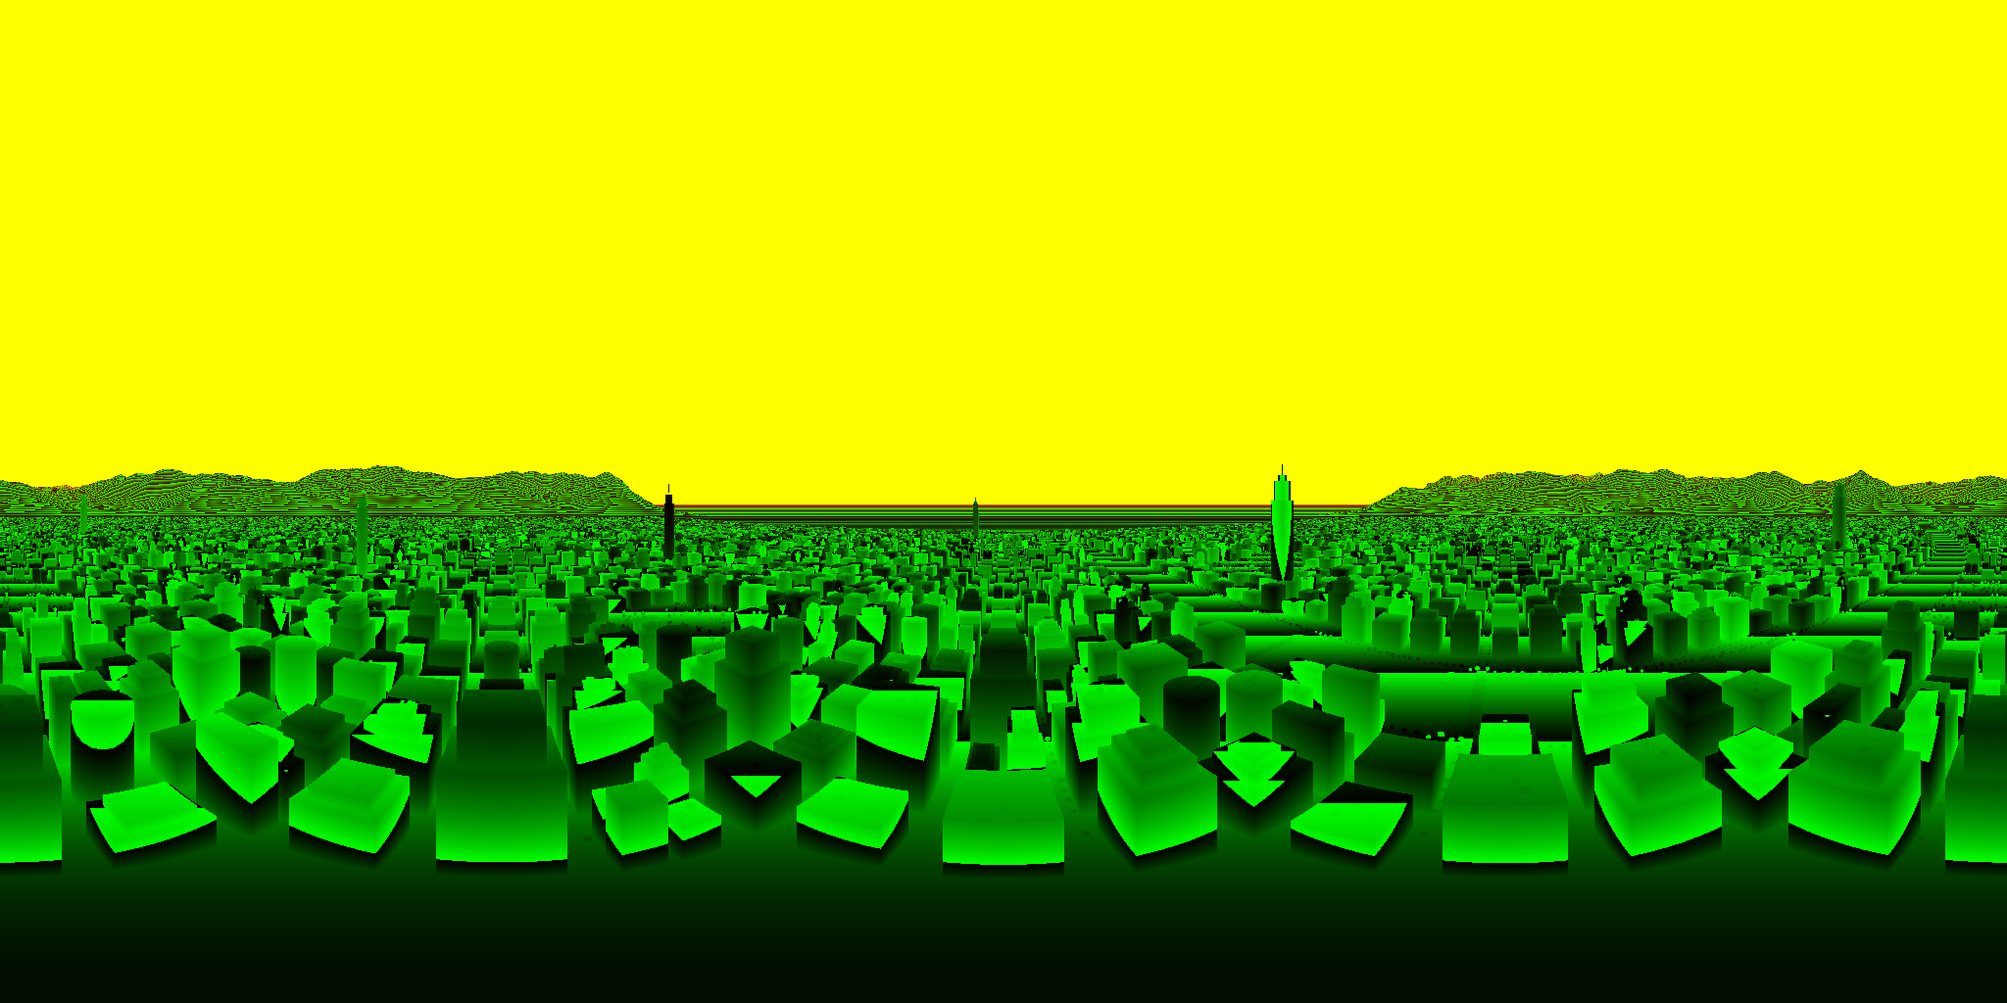
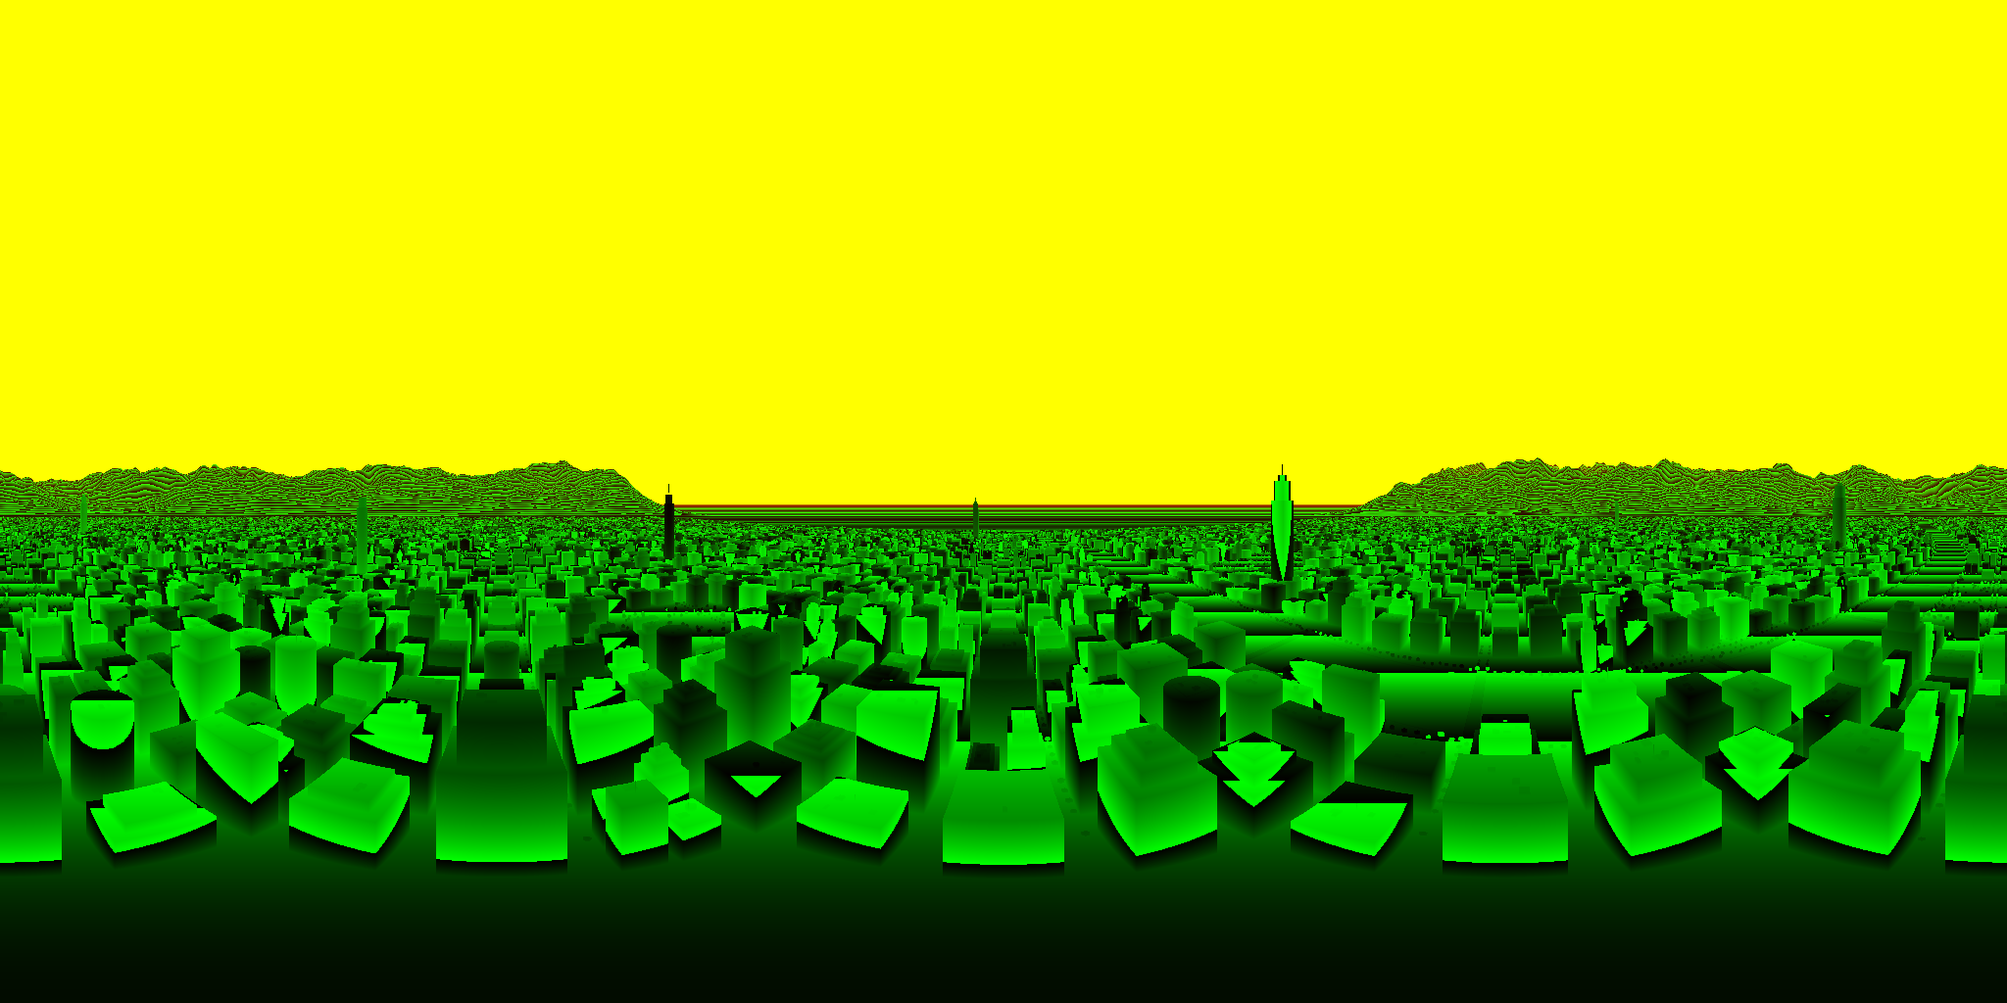
Home Boxing: citta' con luce corretta e montagne frastagliate (boschi, pascoli, roccia)

Changed region(s): [[0.6562, 0.4375, 1.0, 0.5312], [0.0, 0.4375, 0.3438, 0.5312]]

diff --git a/homeboxing/js/fighters.js b/homeboxing/js/fighters.js
@@ -3,7 +3,7 @@
 // Ruolo nel gioco sempre lo stesso ("mike" nel codice = l'avversario); qui cambiano nome e aspetto.
 export const FIGHTERS = {
   bruce: {
-    id: 'bruce', name: 'Bruce', glb: 'assets/bruce.glb?v=20261003224237', thumb: 'assets/fighter_bruce.webp?v=20261003224237',
+    id: 'bruce', name: 'Bruce', glb: 'assets/bruce.glb?v=20261003224340', thumb: 'assets/fighter_bruce.webp?v=20261003224340',
     face: [163, 5, 110],                                           // volto nell'anteprima (x, y, lato) per il tabellone
     skinTint: 0xe3b98f,                                            // pelle piu' abbronzata della texture MakeHuman
     evenSkin: false,                                               // (la schiaritura delle gambe serve solo alla pelle di Mike)
@@ -12,13 +12,13 @@ export const FIGHTERS = {
     feints: { rate: 1.3, moves: ['feint_jab', 'feint_dip', 'feint_hop', 'feint_jab'], speed: 1.0 },
   },
   mike: {
-    id: 'mike', name: 'Mike', glb: 'assets/mike.glb?v=20261003224237', thumb: 'assets/fighter_mike.webp?v=20261003224237',
+    id: 'mike', name: 'Mike', glb: 'assets/mike.glb?v=20261003224340', thumb: 'assets/fighter_mike.webp?v=20261003224340',
     face: [178, 0, 110],
     skinTint: null,
     band: { bg: '#f4f4f0', line: '#c99a2e', text: '#1239a8' },
   },
   eddy: {
-    id: 'eddy', name: 'Eddy', glb: 'assets/eddy.glb?v=20261003224237', thumb: 'assets/fighter_eddy.webp?v=20261003224237',
+    id: 'eddy', name: 'Eddy', glb: 'assets/eddy.glb?v=20261003224340', thumb: 'assets/fighter_eddy.webp?v=20261003224340',
     face: [182, 52, 110],
     skinTint: null, evenSkin: false, noStubble: true,            // ai lati rasato a zero: niente ombra di capelli sotto la cresta
     band: { bg: '#0b0b0e', line: '#0a8cff', text: '#3fb0ff' },     // fascia nera con scritta blu fosforescente
@@ -28,7 +28,7 @@ export const FIGHTERS = {
     feints: { rate: 0.6, moves: ['feint_hop', 'feint_dip'], speed: 1.15 },
   },
   fury: {
-    id: 'fury', name: 'Fury', glb: 'assets/fury.glb?v=20261003224237', thumb: 'assets/fighter_fury.webp?v=20261003224237',
+    id: 'fury', name: 'Fury', glb: 'assets/fury.glb?v=20261003224340', thumb: 'assets/fighter_fury.webp?v=20261003224340',
     face: [190, 8, 102],
     skinTint: 0xc99872, evenSkin: false,                           // pelle abbronzata
     // calzoncini thai: fascia dorata larga con il riquadro bianco e la scritta rossa
@@ -37,7 +37,7 @@ export const FIGHTERS = {
     mods: { moveSpeed: 0.6, defenseSpeed: 1.0, attackEvery: 1.15, extraCombos: ['1-2-3-2', '1-6-3-2', '2-3-2', '1-2-5-2', '3-2-3', '6-3b-3', '1-2-3'] },
   },
   maxim: {
-    id: 'maxim', name: 'Maxim', glb: 'assets/maxim.glb?v=20261003224237', thumb: 'assets/fighter_maxim.webp?v=20261003224237',
+    id: 'maxim', name: 'Maxim', glb: 'assets/maxim.glb?v=20261003224340', thumb: 'assets/fighter_maxim.webp?v=20261003224340',
     face: [192, 34, 100],
     skinTint: null, evenSkin: false, hairTint: '#d9b872',          // biondo
     band: { bg: '#f4f4f0', line: '#c40f22', text: '#c40f22', label: 'MAXIM ★' },
@@ -45,7 +45,7 @@ export const FIGHTERS = {
     mods: { moveSpeed: 1.15, defenseSpeed: 0.95, attackEvery: 0.7, extraCombos: ['3-4', '3-2-3', '2-3', '1-2-3', '3-2', '2-3-2', '6-3', '1-2-3-2', '3b-4', '3b-3'] },
   },
   brutus: {
-    id: 'brutus', name: 'Brutus', glb: 'assets/brutus.glb?v=20261003224237', thumb: 'assets/fighter_brutus.webp?v=20261003224237',
+    id: 'brutus', name: 'Brutus', glb: 'assets/brutus.glb?v=20261003224340', thumb: 'assets/fighter_brutus.webp?v=20261003224340',
     face: [188, 30, 100],
     skinTint: 0xe8c4a8, evenSkin: false,
     band: { bg: '#7a0f14', line: '#d4a537', text: '#e8c25a', label: 'BRUTUS' },
@@ -56,7 +56,7 @@ export const FIGHTERS = {
       extraCombos: ['3-4', '6-3', '1-6', '5-2', '6-3b-3', '3-2-3', '1-6-3-2', '1-2-5-2', '3b-4', '6-3'] },
   },
   rocco: {
-    id: 'rocco', name: 'Rocco', glb: 'assets/rocco.glb?v=20261003224237', thumb: 'assets/fighter_rocco.webp?v=20261003224237',
+    id: 'rocco', name: 'Rocco', glb: 'assets/rocco.glb?v=20261003224340', thumb: 'assets/fighter_rocco.webp?v=20261003224340',
     face: [195, 12, 92],
     skinTint: 0xf0d2b8, evenSkin: false, skinGloss: 0.32,           // pelle lucida di sudore
     band: { bg: '#121214', line: '#121214', text: '#f1efe8', label: ' ' },   // fascia nera liscia
@@ -67,7 +67,7 @@ export const FIGHTERS = {
       extraCombos: ['3b-3', '1-3b-3', '2b-3-2', '3b-4', '1-2b', '3-2', '1-2-3'] },
   },
   ace: {
-    id: 'ace', name: 'Ace', glb: 'assets/ace.glb?v=20261003224237', thumb: 'assets/fighter_ace.webp?v=20261003224237',
+    id: 'ace', name: 'Ace', glb: 'assets/ace.glb?v=20261003224340', thumb: 'assets/fighter_ace.webp?v=20261003224340',
     face: [195, 15, 95],
     skinTint: 0x6e5244, evenSkin: false, skinGloss: 0.4,           // nerissimo, un po' lucido
     fur: '#0c0a09',                                                 // capelli rasati neri (non grigi sulla pelle scura)

diff --git a/homeboxing/js/main.js b/homeboxing/js/main.js
@@ -2,24 +2,24 @@
 import * as THREE from 'three';
 import { RoomEnvironment } from 'three/addons/environments/RoomEnvironment.js';
 import { OrbitControls } from 'three/addons/controls/OrbitControls.js';
-import { buildRing, RING_SIZE } from './ring.js?v=20261003224237';
-import { Mike, LEVELS, loadMikeGLTF } from './mike.js?v=20261003224237';
-import { Sweat, Bruises, Celebration } from './fx.js?v=20261003224237';
-import { Player, SimInput } from './player.js?v=20261003224237';
-import { Scoreboard, HitFlash, PauseMenu, MenuPanel, CountdownHUD, RayPointers, setRays } from './hud.js?v=20261003224237';
-import { Room } from './room.js?v=20261003224237';
-import { Arena } from './arena.js?v=20261003224237';
-import { Beach } from './beach.js?v=20261003224237';
-import { Rooftop } from './rooftop.js?v=20261003224237';
-import { Desert } from './desert.js?v=20261003224237';
-import { RingGirl } from './ringgirl.js?v=20261003224237';
-import { REST_S, knockdownChance, say, sayCount, GetUpChallenge } from './match.js?v=20261003224237';
-import * as sfx from './sfx.js?v=20261003224237';
-import { t, lang, setLang, onLang, setOpponentName } from './i18n.js?v=20261003224237';
-import { FIGHTERS, FIGHTER_IDS } from './fighters.js?v=20261003224237';
-import { Tournament, BracketView } from './tournament.js?v=20261003224237';
-import { CpuMatch } from './cpu_match.js?v=20261003224237';
-import { TowerView } from './tower.js?v=20261003224237';
+import { buildRing, RING_SIZE } from './ring.js?v=20261003224340';
+import { Mike, LEVELS, loadMikeGLTF } from './mike.js?v=20261003224340';
+import { Sweat, Bruises, Celebration } from './fx.js?v=20261003224340';
+import { Player, SimInput } from './player.js?v=20261003224340';
+import { Scoreboard, HitFlash, PauseMenu, MenuPanel, CountdownHUD, RayPointers, setRays } from './hud.js?v=20261003224340';
+import { Room } from './room.js?v=20261003224340';
+import { Arena } from './arena.js?v=20261003224340';
+import { Beach } from './beach.js?v=20261003224340';
+import { Rooftop } from './rooftop.js?v=20261003224340';
+import { Desert } from './desert.js?v=20261003224340';
+import { RingGirl } from './ringgirl.js?v=20261003224340';
+import { REST_S, knockdownChance, say, sayCount, GetUpChallenge } from './match.js?v=20261003224340';
+import * as sfx from './sfx.js?v=20261003224340';
+import { t, lang, setLang, onLang, setOpponentName } from './i18n.js?v=20261003224340';
+import { FIGHTERS, FIGHTER_IDS } from './fighters.js?v=20261003224340';
+import { Tournament, BracketView } from './tournament.js?v=20261003224340';
+import { CpuMatch } from './cpu_match.js?v=20261003224340';
+import { TowerView } from './tower.js?v=20261003224340';
 sfx.setVoiceLang(lang);
 
 const $ = id => document.getElementById(id);
@@ -260,7 +260,7 @@ function roomPreview() {
   const t = new THREE.CanvasTexture(c); t.colorSpace = THREE.SRGBColorSpace;
   return t;
 }
-const stageImg = n => { const t = new THREE.TextureLoader().load(`assets/stage_${n}.webp?v=20261003224237`); t.colorSpace = THREE.SRGBColorSpace; return t; };
+const stageImg = n => { const t = new THREE.TextureLoader().load(`assets/stage_${n}.webp?v=20261003224340`); t.colorSpace = THREE.SRGBColorSpace; return t; };
 const fighterImg = id => { const tx = new THREE.TextureLoader().load(FIGHTERS[id].thumb); tx.colorSpace = THREE.SRGBColorSpace; return tx; };
 // anteprima di "Arena random": gli stage virtuali con un grande punto di domanda
 function randomPreview() {

diff --git a/homeboxing/js/desert.js b/homeboxing/js/desert.js
@@ -17,7 +17,7 @@ export class Desert {
     this.t = 0;
   }
   _sky() {
-    const tex = new THREE.TextureLoader().load('assets/deserto_panorama.jpg?v=20261003224237', () => { this.skyLoaded = true; if (this.onSkyLoad) this.onSkyLoad(); });
+    const tex = new THREE.TextureLoader().load('assets/deserto_panorama.jpg?v=20261003224340', () => { this.skyLoaded = true; if (this.onSkyLoad) this.onSkyLoad(); });
     tex.colorSpace = THREE.SRGBColorSpace; tex.minFilter = THREE.LinearFilter; tex.generateMipmaps = false;
     this.skyTex = tex;
     const m = new THREE.ShaderMaterial({
@@ -37,7 +37,7 @@ export class Desert {
   // sabbia vicina: foto di sabbia rossa (colore = quello del terreno della foto), il bordo sfuma tra 5 e 9 m
   _sand() {
     const L = new THREE.TextureLoader();
-    const tex = L.load('assets/sabbia_rossa_colore.jpg?v=20261003224237'); tex.colorSpace = THREE.SRGBColorSpace;
+    const tex = L.load('assets/sabbia_rossa_colore.jpg?v=20261003224340'); tex.colorSpace = THREE.SRGBColorSpace;
     tex.wrapS = tex.wrapT = THREE.RepeatWrapping; tex.repeat.set(6, 6); tex.anisotropy = 8;
     const a = document.createElement('canvas'); a.width = a.height = 256; const ga = a.getContext('2d');
     const gr = ga.createRadialGradient(128, 128, 128 * 5 / 9, 128, 128, 128); gr.addColorStop(0, '#fff'); gr.addColorStop(1, '#000');
@@ -45,7 +45,7 @@ export class Desert {
     const sand = new THREE.Mesh(new THREE.CircleGeometry(9, 64), new THREE.MeshBasicMaterial({ map: tex, alphaMap: new THREE.CanvasTexture(a), transparent: true, depthWrite: true, toneMapped: false }));   // (scrive la profondita': lo scorpione sotto la sabbia non si vede)
     sand.rotation.x = -Math.PI / 2; sand.position.y = -0.005; sand.renderOrder = -5; this.group.add(sand);
     // sotto il ring: opaca e illuminata (riceve le ombre dei pugili)
-    const nor = L.load('assets/sabbia_rossa_rilievo.jpg?v=20261003224237'); nor.wrapS = nor.wrapT = THREE.RepeatWrapping; nor.repeat.set(3, 3);
+    const nor = L.load('assets/sabbia_rossa_rilievo.jpg?v=20261003224340'); nor.wrapS = nor.wrapT = THREE.RepeatWrapping; nor.repeat.set(3, 3);
     const t2 = tex.clone(); t2.repeat.set(3, 3); t2.needsUpdate = true;
     const under = new THREE.Mesh(new THREE.CircleGeometry(4.5, 48), new THREE.MeshStandardMaterial({ map: t2, normalMap: nor, roughness: 0.95 }));
     under.rotation.x = -Math.PI / 2; under.position.y = -0.003; under.receiveShadow = true; this.group.add(under);

diff --git a/homeboxing/js/arena.js b/homeboxing/js/arena.js
@@ -4,7 +4,7 @@ import * as THREE from 'three';
 import { GLTFLoader } from 'three/addons/loaders/GLTFLoader.js';
 import * as SkeletonUtils from 'three/addons/utils/SkeletonUtils.js';
 import { mergeGeometries } from 'three/addons/utils/BufferGeometryUtils.js';
-import { fixHumanMaterial } from './ringgirl.js?v=20261003224237';
+import { fixHumanMaterial } from './ringgirl.js?v=20261003224340';
 
 const SKIN = [0x3b2417, 0x5a3825, 0x7a4e33, 0x9a6a48, 0xc08d6a, 0xe0b594, 0xf1cfb4];
 const SHIRT = [0xd81e2c, 0x1d4fc4, 0xf2f2f2, 0x1b1b1f, 0xffc93a, 0x2e8b57, 0x8a2be2, 0xff7f27, 0x4cc3e6, 0x9e9e9e, 0x6b3e26];
@@ -136,7 +136,7 @@ export class Arena {
   // Bordo ring: persone vere in 3D (blender/create_crowd.py ... glb), sedute su sedie, animate.
   async loadRingside() {
     const loader = new GLTFLoader();
-    const models = (await Promise.all([0, 1, 2, 3, 4, 5, 6, 7].map(i => loader.loadAsync(`assets/spettatori/s${i}.glb?v=20261003224237`).catch(() => null)))).filter(Boolean);
+    const models = (await Promise.all([0, 1, 2, 3, 4, 5, 6, 7].map(i => loader.loadAsync(`assets/spettatori/s${i}.glb?v=20261003224340`).catch(() => null)))).filter(Boolean);
     if (!models.length) return;
     const chairMat = new THREE.MeshStandardMaterial({ color: 0x1b1d22, roughness: 0.6, metalness: 0.3 });
     // una sedia = una sola geometria (seduta, schienale, gambe), e tutte le sedie in un'unica mesh: poche chiamate di disegno
@@ -211,7 +211,7 @@ export class Arena {
   // Atlante: 6 colonne x 8 righe, celle 256x512; persona p -> riga p/2, colonna (p%2)*3 + posa.
   _buildCrowd(seats) {
     const n = seats.length, PEOPLE = 16, COLS = 6, ROWS = 8;
-    const tex = new THREE.TextureLoader().load('assets/pubblico.webp?v=20261003224237');
+    const tex = new THREE.TextureLoader().load('assets/pubblico.webp?v=20261003224340');
     tex.colorSpace = THREE.SRGBColorSpace; tex.anisotropy = 4;
     const geo = new THREE.PlaneGeometry(1.15, 2.3); geo.translate(0, 1.15 - 2.3 * 12 / 512, 0);   // piedi a terra (atlante: 12 px di margine)
     const aCell = new Float32Array(n * 2), aPose = new Float32Array(n), aTint = new Float32Array(n);

diff --git a/homeboxing/js/sfx.js b/homeboxing/js/sfx.js
@@ -33,7 +33,7 @@ function tone(t, dur, freq, gain, type = 'sine', toFreq = null) {
   o.connect(g); g.connect(master); o.start(t); o.stop(t + dur + 0.05);
 }
 
-import { FIGHTER_IDS } from './fighters.js?v=20261003224237';
+import { FIGHTER_IDS } from './fighters.js?v=20261003224340';
 // Voci dello speaker e dell'arbitro (tools/gen_voices.py) nella lingua del gioco: frasi in coda, una dopo l'altra
 const NUMS = ['one', 'two', 'three', 'four', 'five', 'six', 'seven', 'eight', 'nine', 'ten', 'eleven', 'twelve'];
 const VOICES = [...NUMS.map((_, i) => `round_${i + 1}`), ...NUMS.slice(0, 10).map((_, i) => `count_${i + 1}`),
@@ -48,7 +48,7 @@ let vbuf = {}, vLang = 'it';
 let vEnd = 0, vPlaying = [];
 function loadVoices() {
   const mine = vbuf = {}, l = vLang;
-  for (const n of VOICES) fetch(`assets/voce/${l}/${n}.ogg?v=20261003224237`).then(r => r.arrayBuffer()).then(a => ctx.decodeAudioData(a))
+  for (const n of VOICES) fetch(`assets/voce/${l}/${n}.ogg?v=20261003224340`).then(r => r.arrayBuffer()).then(a => ctx.decodeAudioData(a))
     .then(b => { mine[n] = b; }).catch(() => {});
 }
 // lingua delle voci ('it' o 'en'): al cambio si ricaricano
@@ -167,7 +167,7 @@ const buf = {};
 let loading = null, amb = null, ambWanted = false, sea = null, seaWanted = false;
 function loadSamples() {
   if (loading || !ctx) return loading;
-  loading = Promise.all(SAMPLES.map(n => fetch(`assets/audio/${n}.ogg?v=20261003224237`).then(r => r.arrayBuffer())
+  loading = Promise.all(SAMPLES.map(n => fetch(`assets/audio/${n}.ogg?v=20261003224340`).then(r => r.arrayBuffer())
     .then(a => ctx.decodeAudioData(a)).then(b => { buf[n] = b; }).catch(e => console.warn('audio', n, e))));
   loading.then(() => { if (ambWanted && !amb) crowdAmbient(true); if (seaWanted && !sea) seaAmbient(true); if (windWanted && (!wind || wind.synth)) { if (wind) { wind.s.stop(); wind = null; } windAmbient(true); } });   // vento vero appena caricato
   return loading;

diff --git a/homeboxing/js/ringgirl.js b/homeboxing/js/ringgirl.js
@@ -33,11 +33,11 @@ export function fixHumanMaterial(o) {
 // cinque ragazze (blender/create_ringgirl.py var=0..4): stessa struttura e animazioni, cambiano pelle, capelli,
 // completo e colore del numero sul cartello. Una a caso per incontro, la stessa per tutto l'incontro.
 export const GIRLS = [
-  { glb: 'assets/ringgirl.glb?v=20261003224237', ink: '#c4161f', band: '#c4161f' },                          // mora, rosso e oro
-  { glb: 'assets/ringgirl_1.glb?v=20261003224237', ink: '#b8860b', band: '#111111' },                        // di colore, oro e nero
-  { glb: 'assets/ringgirl_2.glb?v=20261003224237', ink: '#c4161f', band: '#c4161f' },                        // cinese, bianco e rosso
-  { glb: 'assets/ringgirl_3.glb?v=20261003224237', ink: '#1d4fc4', band: '#1d4fc4', hair: '#e8c47c' },       // bionda, blu e argento
-  { glb: 'assets/ringgirl_4.glb?v=20261003224237', ink: '#8a2be2', band: '#d6407a' },                        // latina, viola e rosa
+  { glb: 'assets/ringgirl.glb?v=20261003224340', ink: '#c4161f', band: '#c4161f' },                          // mora, rosso e oro
+  { glb: 'assets/ringgirl_1.glb?v=20261003224340', ink: '#b8860b', band: '#111111' },                        // di colore, oro e nero
+  { glb: 'assets/ringgirl_2.glb?v=20261003224340', ink: '#c4161f', band: '#c4161f' },                        // cinese, bianco e rosso
+  { glb: 'assets/ringgirl_3.glb?v=20261003224340', ink: '#1d4fc4', band: '#1d4fc4', hair: '#e8c47c' },       // bionda, blu e argento
+  { glb: 'assets/ringgirl_4.glb?v=20261003224340', ink: '#8a2be2', band: '#d6407a' },                        // latina, viola e rosa
 ];
 export class RingGirl {
   constructor(scene) {

diff --git a/homeboxing/js/beach.js b/homeboxing/js/beach.js
@@ -71,7 +71,7 @@ export class Beach {
 
   // cielo e sfondo: il panorama a 360 gradi della spiaggia vera (proiezione equirettangolare)
   _sky() {
-    const tex = new THREE.TextureLoader().load('assets/spiaggia_cielo.jpg?v=20261003224237', () => { this.skyLoaded = true; if (this.onSkyLoad) this.onSkyLoad(); });
+    const tex = new THREE.TextureLoader().load('assets/spiaggia_cielo.jpg?v=20261003224340', () => { this.skyLoaded = true; if (this.onSkyLoad) this.onSkyLoad(); });
     tex.colorSpace = THREE.SRGBColorSpace; tex.minFilter = THREE.LinearFilter; tex.generateMipmaps = false;
     this.skyTex = tex;
     const m = new THREE.ShaderMaterial({
@@ -112,7 +112,7 @@ export class Beach {
     g.setAttribute('uv', new THREE.Float32BufferAttribute(uv, 2));
     g.setIndex(idx); g.computeVertexNormals();
     const L = new THREE.TextureLoader();
-    const tex = L.load('assets/sabbia_colore.jpg?v=20261003224237'), nrm = L.load('assets/sabbia_rilievo.jpg?v=20261003224237');
+    const tex = L.load('assets/sabbia_colore.jpg?v=20261003224340'), nrm = L.load('assets/sabbia_rilievo.jpg?v=20261003224340');
     tex.colorSpace = THREE.SRGBColorSpace;
     for (const t of [tex, nrm]) { t.wrapS = t.wrapT = THREE.RepeatWrapping; t.anisotropy = 8; }
     const m = new THREE.MeshStandardMaterial({ map: tex, normalMap: nrm, normalScale: new THREE.Vector2(1.4, 1.4), vertexColors: true, roughness: 1 });

diff --git a/homeboxing/js/rooftop.js b/homeboxing/js/rooftop.js
@@ -4,7 +4,7 @@
 // La citta' si muove (city_life.js): auto, battelli, navi, uccelli, aerei. Ogni tanto passa un elicottero (il suono lo fa sfx.heli, spaziale: piu' forte quando e' vicino).
 // Sistema di riferimento: quello del ring (origine al centro del tappeto, y in alto).
 import * as THREE from 'three';
-import { CityLife } from './city_life.js?v=20261003224237';
+import { CityLife } from './city_life.js?v=20261003224340';
 
 const PANO_U = 0.0;               // rotazione del panorama (il sole della foto a sinistra, un po' dietro)
 const TOWER_H = 260;              // dal tetto alla strada
@@ -21,7 +21,7 @@ export class Rooftop {
   }
 
   _sky() {
-    const tex = new THREE.TextureLoader().load('assets/citta_panorama.jpg?v=20261003224237', () => { this.skyLoaded = true; if (this.onSkyLoad) this.onSkyLoad(); });
+    const tex = new THREE.TextureLoader().load('assets/citta_panorama.jpg?v=20261003224340', () => { this.skyLoaded = true; if (this.onSkyLoad) this.onSkyLoad(); });
     tex.colorSpace = THREE.SRGBColorSpace; tex.minFilter = THREE.LinearFilter; tex.generateMipmaps = false;
     this.skyTex = tex;
     const m = new THREE.ShaderMaterial({

diff --git a/homeboxing/js/tower.js b/homeboxing/js/tower.js
@@ -1,7 +1,7 @@
 // Modalita' Sopravvivenza: la torre. Un piano per ogni avversario (dal basso), tu a destra del piano che devi
 // conquistare. Dopo una vittoria il tuo gettone sale al piano sopra con scia, lampo e suono; in cima la corona.
 import * as THREE from 'three';
-import { t } from './i18n.js?v=20261003224237';
+import { t } from './i18n.js?v=20261003224340';
 
 const W = 1024, H = 1600;                    // tela
 const PW = 0.9, PH = PW * H / W;             // pannello in metri

diff --git a/homeboxing/js/tournament.js b/homeboxing/js/tournament.js
@@ -4,7 +4,7 @@
 // a te; le animazioni (chi combatte, chi passa il turno, il campione che arriva alla coppa) sono oggetti 3D
 // che si muovono sopra la tela.
 import * as THREE from 'three';
-import { t } from './i18n.js?v=20261003224237';
+import { t } from './i18n.js?v=20261003224340';
 
 const W = 2048, H = 1024;                  // tela del tabellone
 const PW = 1.6, PH = PW * H / W;           // pannello in metri

diff --git a/homeboxing/index.html b/homeboxing/index.html
@@ -90,6 +90,6 @@
     Mouse = guantoni · clic sinistro = jab sinistro · clic destro = diretto destro · tieni premuto Spazio = guardia<br>
     A / D = schiva a sinistra/destra · C = abbassati · W / S = avanti/indietro · V = vista dall'esterno
   </div>
-  <script type="module" src="js/main.js?v=20261003224237"></script>
+  <script type="module" src="js/main.js?v=20261003224340"></script>
 </body>
 </html>

diff --git a/homeboxing/js/match.js b/homeboxing/js/match.js
@@ -1,7 +1,7 @@
 // Incontro vero: danno, atterramenti, conteggio dell'arbitro, KO e KO tecnico (regole del pugilato),
 // e la prova per rialzarsi quando vai a terra tu.
 import * as THREE from 'three';
-import { t as tr } from './i18n.js?v=20261003224237';
+import { t as tr } from './i18n.js?v=20261003224340';
 
 export const ROUNDS = 3, ROUND_S = 180, REST_S = 30;
 
